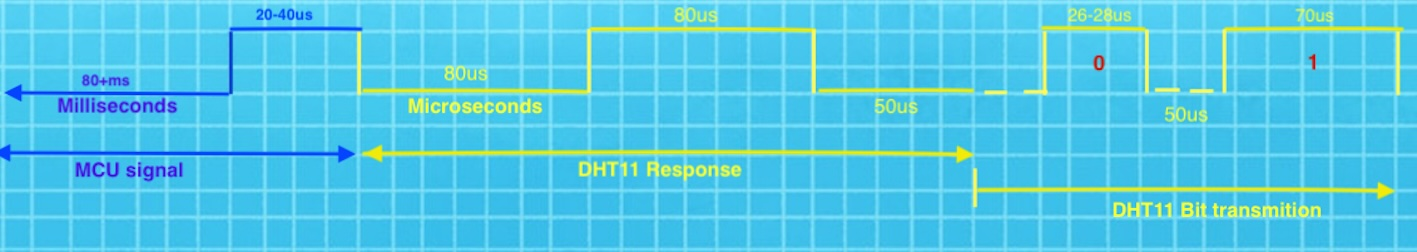
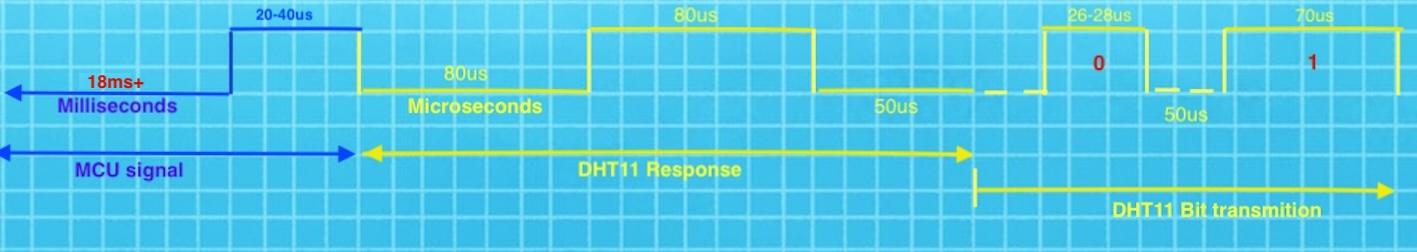
Doc

diff --git a/projects/13-SINGLE_WIRE_WITH_DHT11/README.md b/projects/13-SINGLE_WIRE_WITH_DHT11/README.md
@@ -123,7 +123,7 @@ Checksum Validation: The checksum, which is the last 8 bits of the data packet, 
 
 * The blue line represents the actions of the MCU, and the yellow line represents the actions of the DHT11.
 * Pay attention to the units of measure (milliseconds/ms and microseconds/us).
-* The MCU sends a low signal for 80 ms (milliseconds).
+* The MCU sends a low signal for 18**ms** or more (**milliseconds**).
 * Then, the MCU sends a high signal for between 20 and 40us (microseconds).
 * The DHT11 responds with a low signal for 80us (microseconds).
 * Following this, the DHT11 sends a high signal for 80us.
